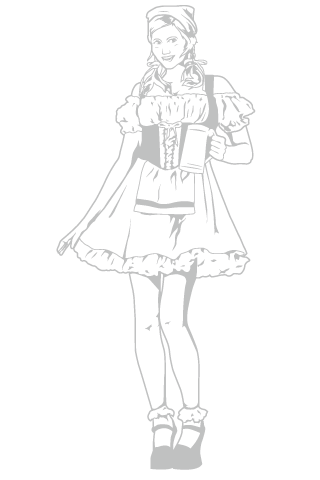
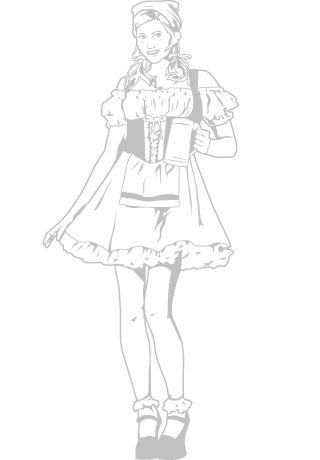
updating the images used for the loading screen, it's not got a solid background for better loading animations.
- should further update this with a subtle gradient background to match the actual content.

git-svn-id: http://svn.ryan953.com/bierfrau/trunk@21 ab78dbeb-6980-4a63-a8ef-b2d301e56650

Changed region(s): [[0.125, 0.0, 0.8125, 1.0], [0.7812, 0.3043, 0.8125, 0.3348], [0.7188, 0.4565, 0.75, 0.487]]

diff --git a/app/webroot/css/mobile_jqm.css b/app/webroot/css/mobile_jqm.css
@@ -12,7 +12,7 @@
 
 
 #about .ui-content {
-	background: transparent url('/img/bierfrau_sketch.png') no-repeat 0 0;
+	background: transparent url('/img/bierfrau_sketch_trans.png') no-repeat 0 0;
 }
 /*
 .ui-btn-up-c {
